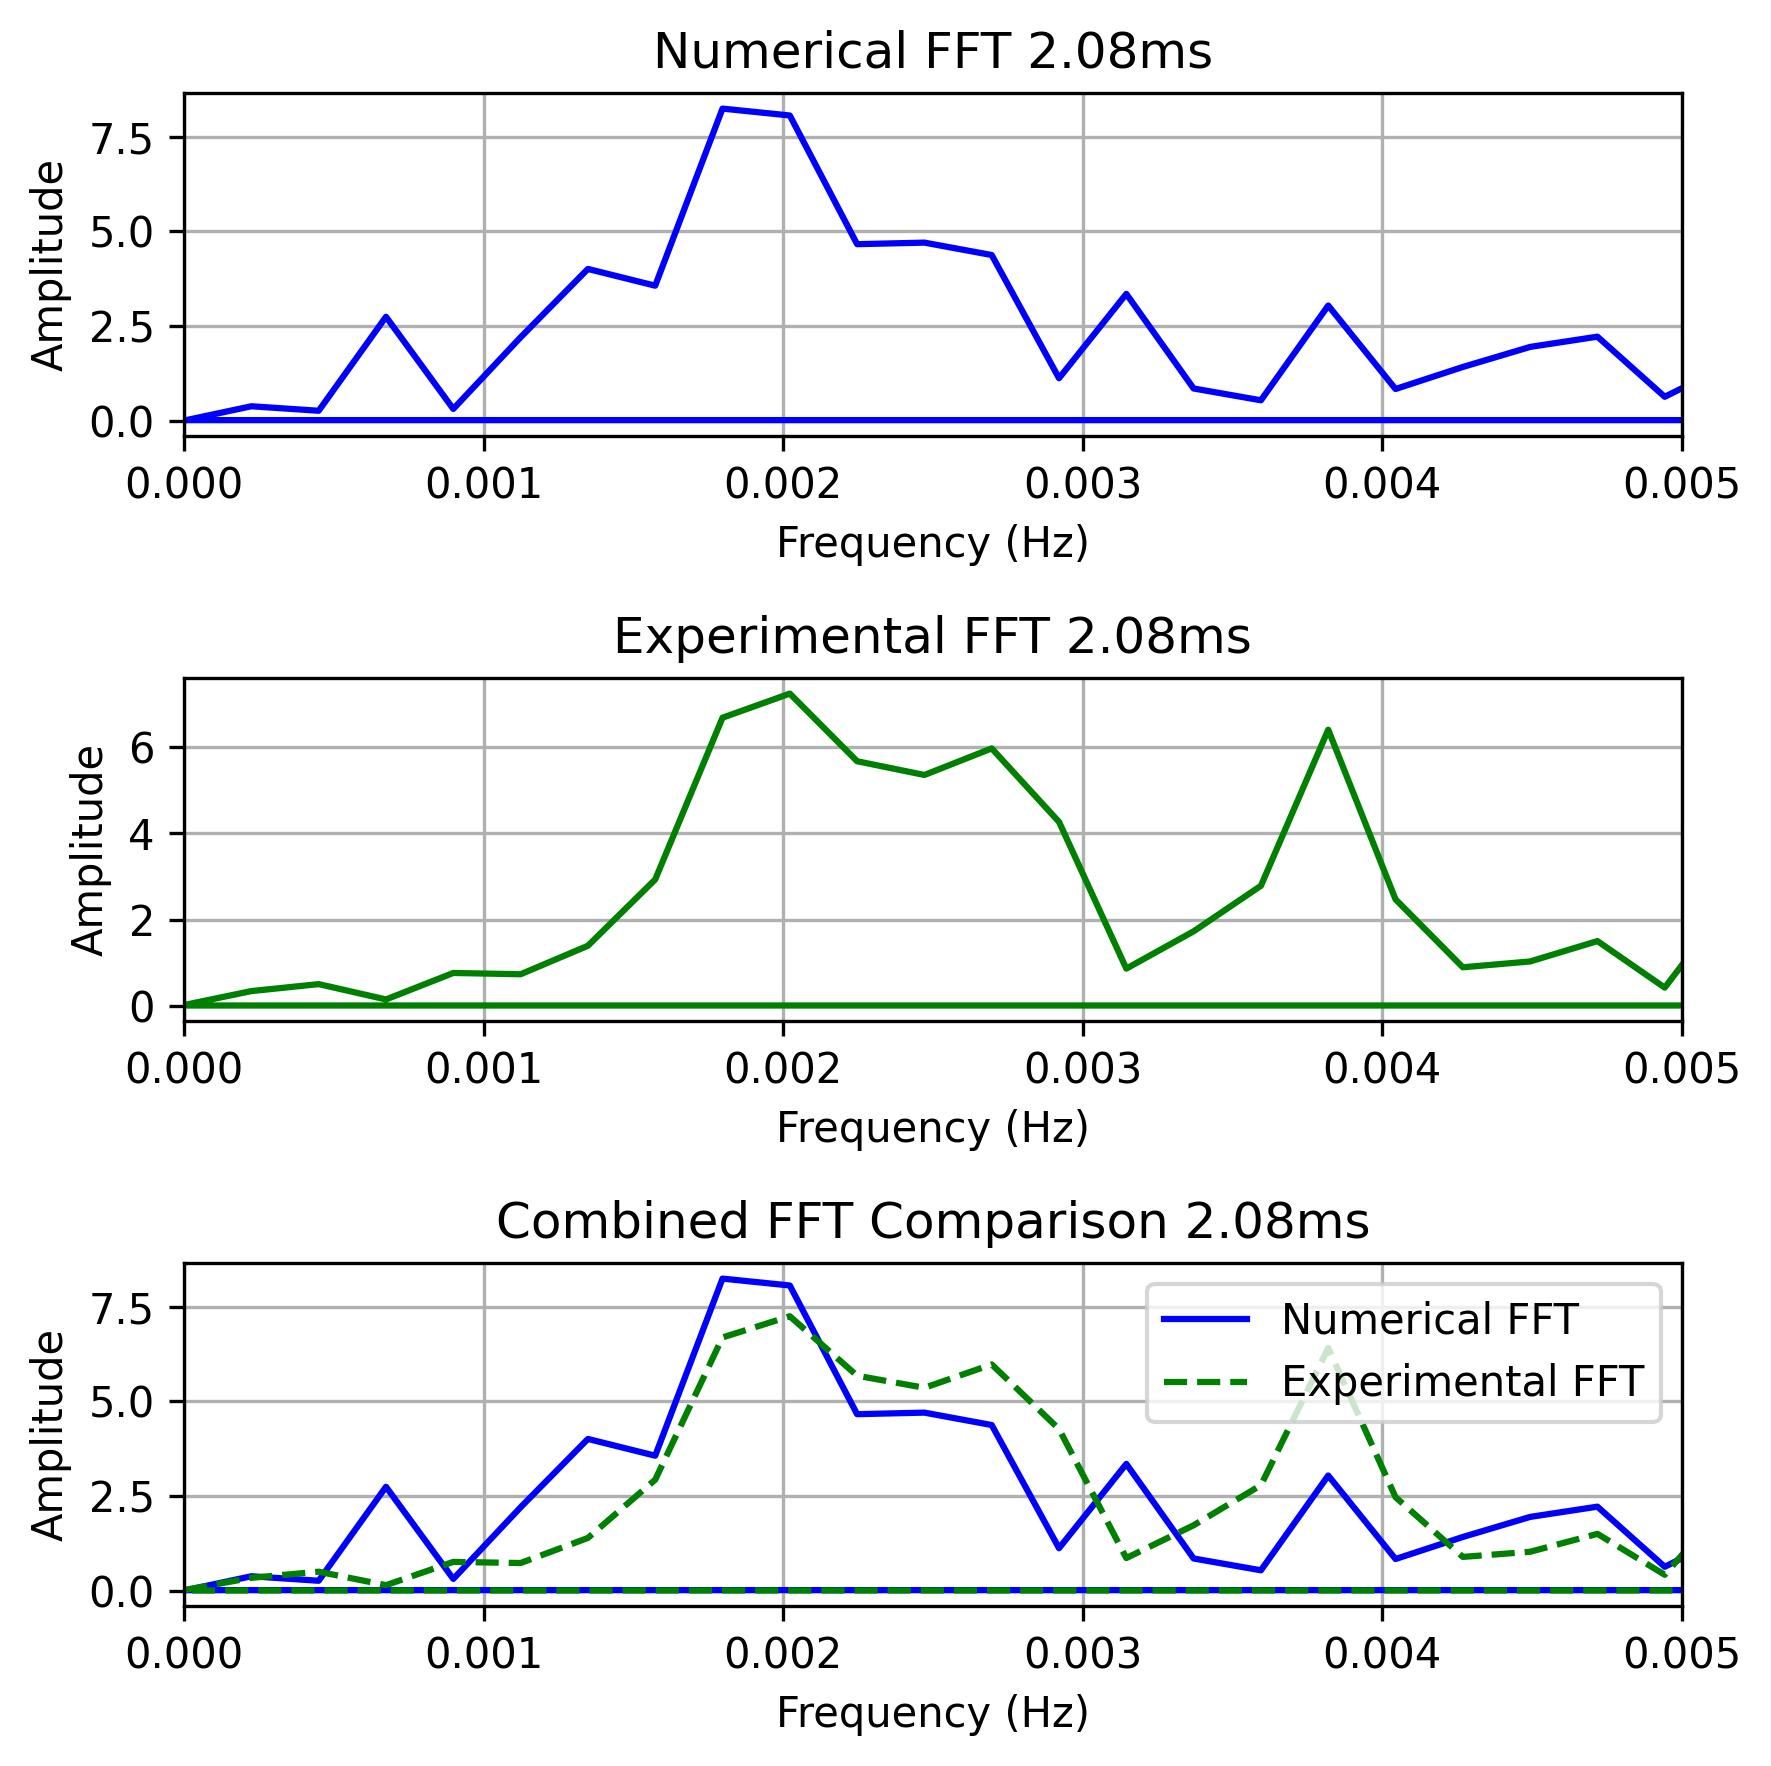
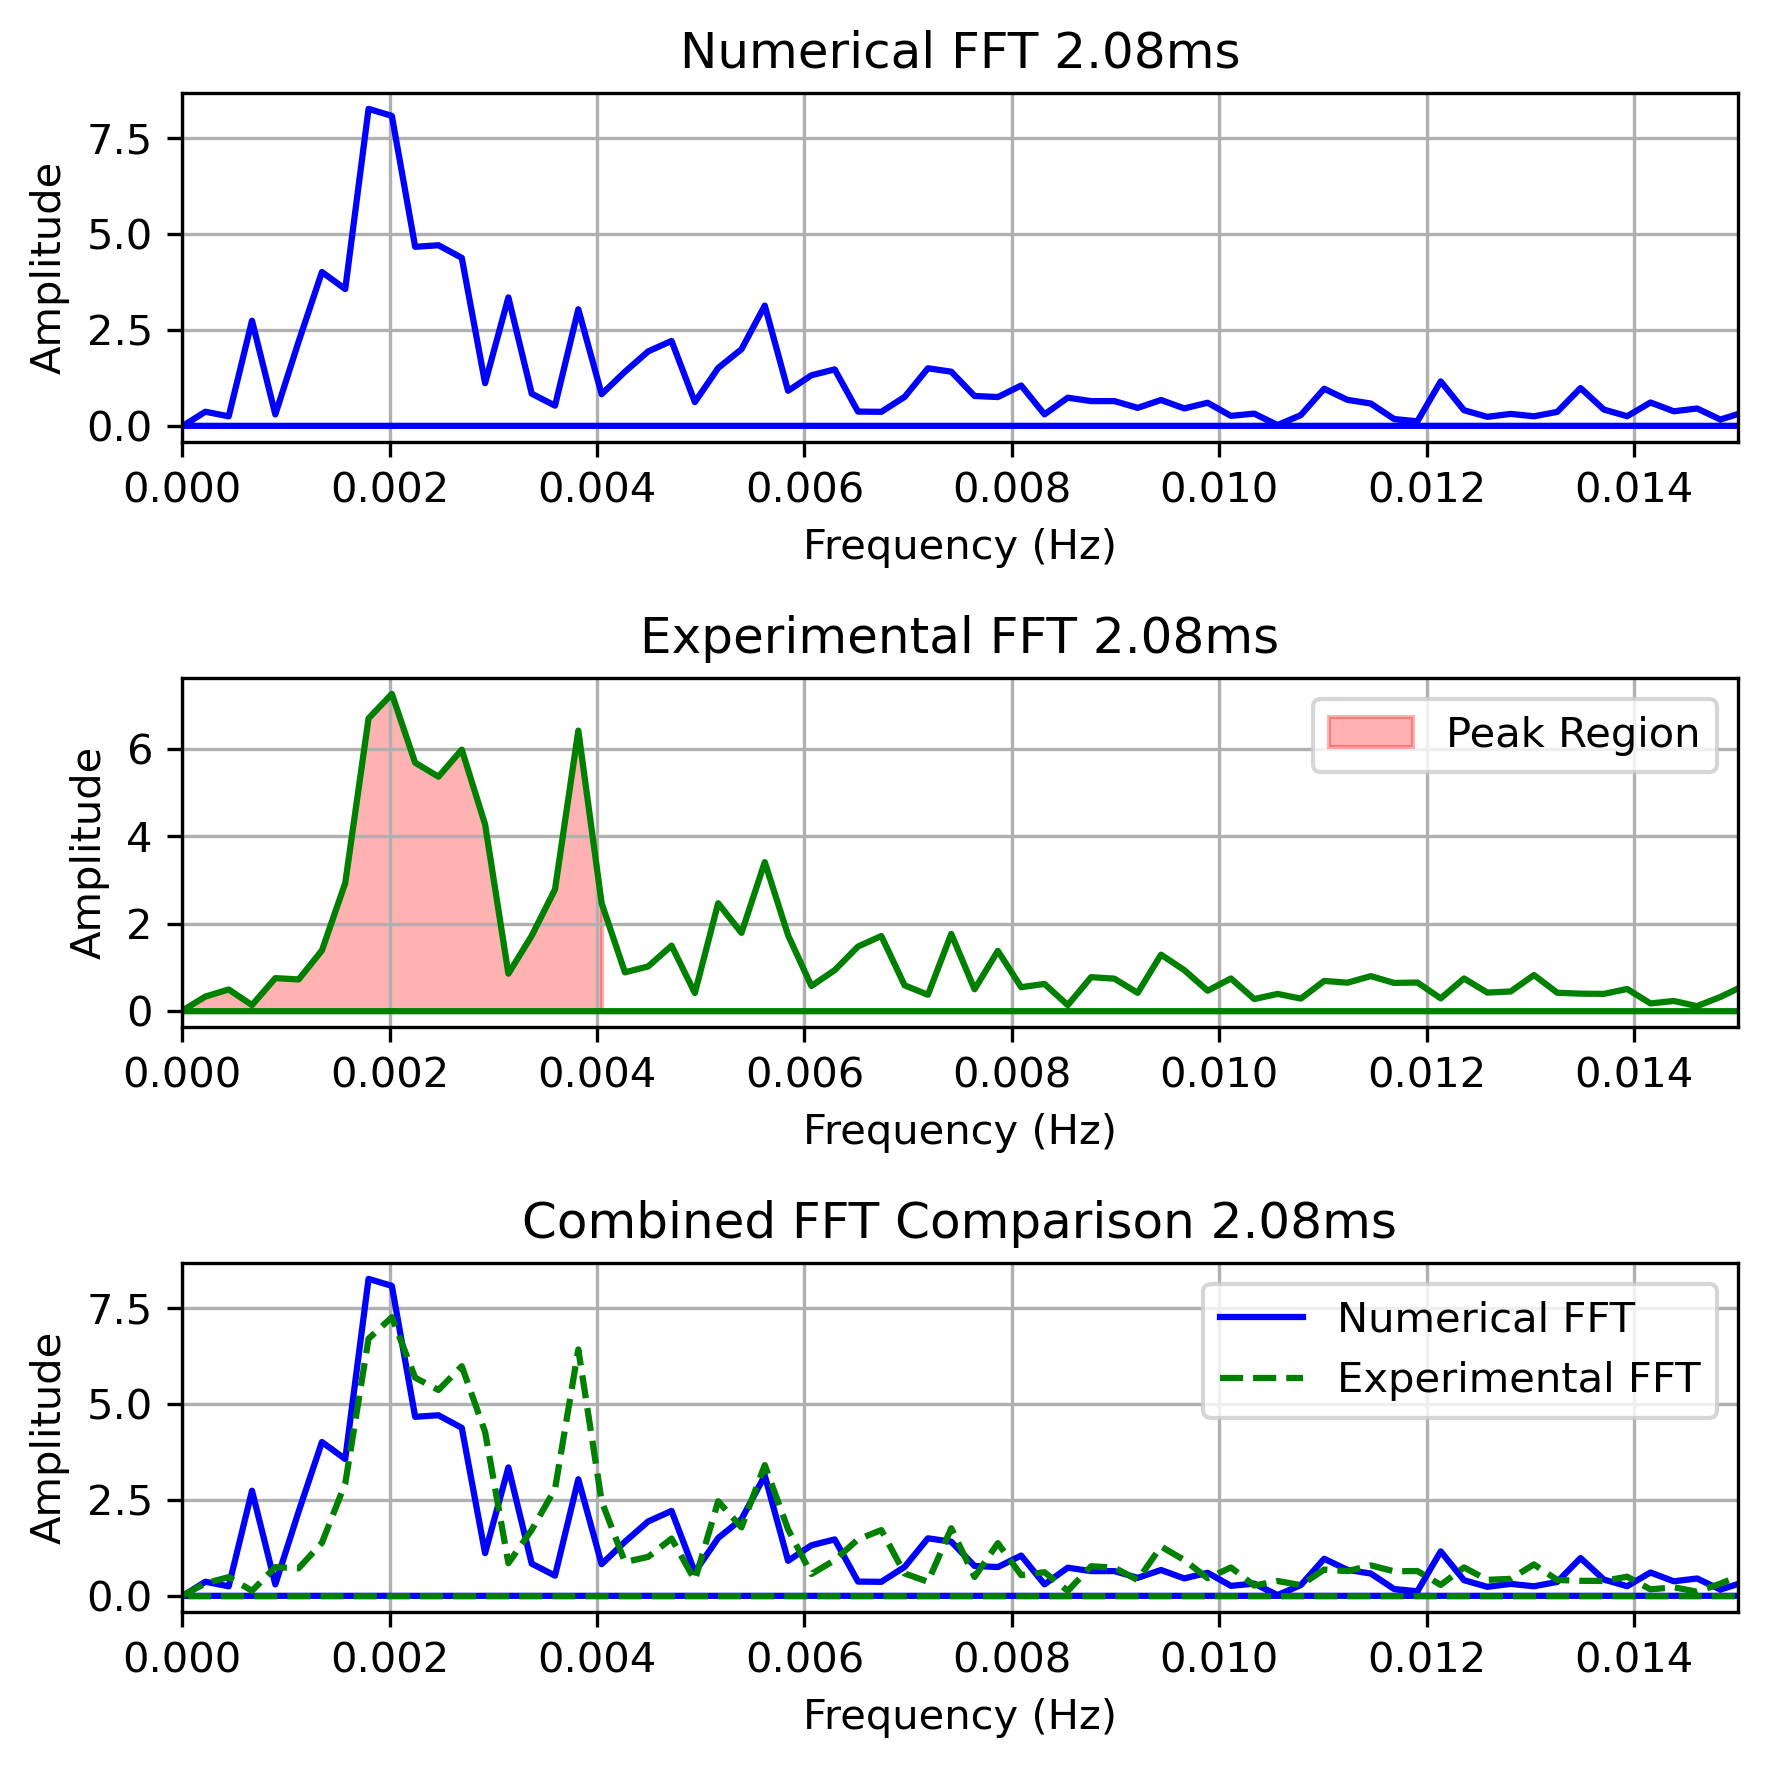
Checkpoint

Changed region(s): [[0.0, 0.0, 0.996, 0.9966], [0.5603, 0.0, 0.6848, 0.0934], [0.9338, 0.0623, 0.996, 0.0934]]

diff --git a/washboad_fft_comparison/fft_comparison_cellbedform.py b/washboad_fft_comparison/fft_comparison_cellbedform.py
@@ -192,6 +192,7 @@ class CellBedform():
         plt.figure(figsize=(12, 6))
         plt.plot(profile[0], profile[1], label='Numerical Data')
         plt.plot(experimental_comparison_data[0], experimental_comparison_data[1], label='Experimental Data') #Transforms x to value un mm since it is in m
+        plt.ylim(-25,25)
         plt.grid(True)  # Add grid if needed
         plt.legend()
 
@@ -212,11 +213,14 @@ class CellBedform():
         fft_freq = np.fft.fftfreq(len(experimental_comparison_data[1]), d=dt)*dt
 
         # Identify the max and region around it
+        # Filter only the positive frequencies
+        positive_freqs = fft_freq > 0
+        fft_result_positive = np.abs(fft_result[positive_freqs])
         fft_exp = np.abs(fft_result)
-        peak_index = np.argmax(fft_exp)
-        margin = int(0.002 * len(fft_exp))  # Identify 10% of the total amount of data next to the highest peak to ponderate
+        peak_index = np.argmax(fft_result_positive)
+        margin = int(0.01 * len(fft_result_positive))  # Identify 10% of the total amount of data next to the highest peak to ponderate
         start_index = max(0, peak_index - margin)
-        end_index = min(len(fft_exp), peak_index + margin)
+        end_index = min(len(fft_result_positive), peak_index + margin)
 
         # Save the plot
         output_file = os.path.join("Images", filename+'_profile_comparison.png')
@@ -230,7 +234,7 @@ class CellBedform():
         # Subplot 1: Experimental FFT
         plt.subplot(3, 1, 1)
         plt.plot(fft_freq_exp, np.abs(fft_result_exp), color='blue')
-        plt.xlim(-0.015,0.015)
+        plt.xlim(0,0.015)
         plt.title('Numerical FFT '+filename)
         plt.xlabel('Frequency (Hz)')
         plt.ylabel('Amplitude')
@@ -240,8 +244,8 @@ class CellBedform():
         plt.subplot(3, 1, 2)
         plt.plot(fft_freq, np.abs(fft_result), color='green')
         plt.fill_between(fft_freq[start_index:end_index], 0, fft_exp[start_index:end_index], color='red', alpha=0.3, label='Peak Region')
-        plt.scatter(fft_freq[peak_index], fft_exp[peak_index], color='red', label='Peak')
-        plt.xlim(-0.015,0.015)
+        #plt.scatter(fft_freq[peak_index], fft_exp[peak_index], color='red', label='Peak')
+        plt.xlim(0,0.015)
         plt.title('Experimental FFT '+filename)
         plt.xlabel('Frequency (Hz)')
         plt.ylabel('Amplitude')
@@ -252,7 +256,7 @@ class CellBedform():
         plt.subplot(3, 1, 3)
         plt.plot(fft_freq_exp, np.abs(fft_result_exp), label='Numerical FFT', color='blue')
         plt.plot(fft_freq, np.abs(fft_result), label='Experimental FFT', linestyle='--', color='green')
-        plt.xlim(-0.015,0.015)
+        plt.xlim(0,0.015)
         plt.legend()
         plt.title('Combined FFT Comparison '+filename)
         plt.xlabel('Frequency (Hz)')

diff --git a/washboardOptimization/main_PSO.py b/washboardOptimization/main_PSO.py
@@ -7,9 +7,9 @@ import os, datetime
 ### CONSTANTS  ###
 # EXPERIMENTAL DATA
 CONDITIONS_FOLDER = "1200g_VelocidadVariable_1740kg-m3"
-TEST_FOLDER = "0.78ms"
+TEST_FOLDER = "1.03ms"
 BASE_SURFACE_FILE = "Vuelta5.txt"
-EXPERIMENTAL_COMPARISON_FILE = "Vuelta80_filtered.txt"
+EXPERIMENTAL_COMPARISON_FILE = "Vuelta80.txt"
 SKIPROWS_FILES = 1
 
 # CELLBEDFORM NUMERICAL SIMULATION PARAMETERS
@@ -55,9 +55,16 @@ def perform_fft(data):
     """Perform FFT on the experimental data."""
     time_values = data[0]/1000
     dt = np.mean(np.diff(time_values))
+    # Perform FFT on profile data
     fft_result = np.fft.fft(data[1]) * dt
+    fft_freq = np.fft.fftfreq(len(data[1]), d=dt)
+
+    # Filter only the positive frequencies
+    positive_freqs = fft_freq > 0
+    fft_result_positive = np.abs(fft_result[positive_freqs])
+
     global fft_exp
-    fft_exp = np.abs(fft_result)
+    fft_exp = fft_result_positive
 
 def objective_function(params):
     """Objective function to minimize."""
@@ -72,7 +79,7 @@ def objective_function(params):
         fft_numerical = cb.run(STEPS_CELLBEDFORM) # Perform Cellbedform Numerical Simulation and obtain fft
 
         peak_index = np.argmax(fft_exp)
-        margin = int(0.002 * len(fft_exp))  # Identify 10% of the total amount of data next to the highest peak to ponderate
+        margin = int(0.005 * len(fft_exp))  # Identify % of the total amount of data next to the highest peak to ponderate
         start_index = max(0, peak_index - margin)
         end_index = min(len(fft_exp), peak_index + margin)
 

diff --git a/washboad_fft_comparison/main_fft_comparison.py b/washboad_fft_comparison/main_fft_comparison.py
@@ -7,10 +7,10 @@ from scipy.interpolate import interp1d
 
 # TEST CASES
 TEST_CASES = [
-    {'velocity': '0.78ms', 'D': 1.2, 'Q': 0.2, 'L0': -40.39188802, 'b': 45.82976483},
-    # {'velocity': '1.29ms', 'D': 1.2, 'Q': 0.2, 'L0': 4588.61355303, 'b': 55.65060651},
-    # {'velocity': '2.08ms', 'D': 1.2, 'Q': 0.2, 'L0': 4837.67381703, 'b': 48.26318216},
-    # {'velocity': '2.61ms', 'D': 1.2, 'Q': 0.2, 'L0': 4986.31878445, 'b': 50.22157854},
+    {'velocity': '0.78ms', 'D': 1.2, 'Q': 0.2, 'L0': -40.39188802, 'b': 45.82976483}, # Frecuencia: 0.005 - 0.01 rango
+    # {'velocity': '1.29ms', 'D': 1.2, 'Q': 0.2, 'L0': 4588.61355303, 'b': 55.65060651}, # Frecuencia 0.0042 0 - 0.005
+    # {'velocity': '2.08ms', 'D': 1.2, 'Q': 0.2, 'L0': 4837.67381703, 'b': 48.26318216}, # Frecuencia 0.00188
+    # {'velocity': '2.61ms', 'D': 1.2, 'Q': 0.2, 'L0': 4986.31878445, 'b': 50.22157854}, # Frecuencia 0.00166
 ]
 
 # EXPERIMENTAL DATA FILES MANAGEMENT

diff --git a/washboardOptimization/cellbedform_PSO.py b/washboardOptimization/cellbedform_PSO.py
@@ -49,9 +49,16 @@ class CellBedform():
         # Compute FFT comparison
         position_values = profile[0]/1000
         dt = np.mean(np.diff(position_values))  # Compute the average time step
-        # Perform FFT on experimental data
-        fft_result = np.fft.fft(profile[1])*dt
-        return np.abs(fft_result)
+        
+        # Perform FFT on profile data
+        fft_result = np.fft.fft(profile[1]) * dt
+        fft_freq = np.fft.fftfreq(len(profile[1]), d=dt)
+
+        # Filter only the positive frequencies
+        positive_freqs = fft_freq > 0
+        fft_result_positive = np.abs(fft_result[positive_freqs])
+        
+        return fft_result_positive
 
     def run_one_step(self):
         """Calculate one step of the model

diff --git a/expWashboardPlotting/plotFiltered.py b/expWashboardPlotting/plotFiltered.py
@@ -35,7 +35,7 @@ filtered_filename = filename.replace(".txt", "_filtered.txt")
 filtered_data = np.column_stack((Data[:, 0], filtered_signal))
 
 # Save the filtered data to a new text file
-np.savetxt(filtered_filename, filtered_data, delimiter='\t', header='X(mm)\tZ(mm)', comments='')
+# np.savetxt(filtered_filename, filtered_data, delimiter='\t', header='X(mm)\tZ(mm)', comments='')
 
 
 # Plot the original and filtered signals
